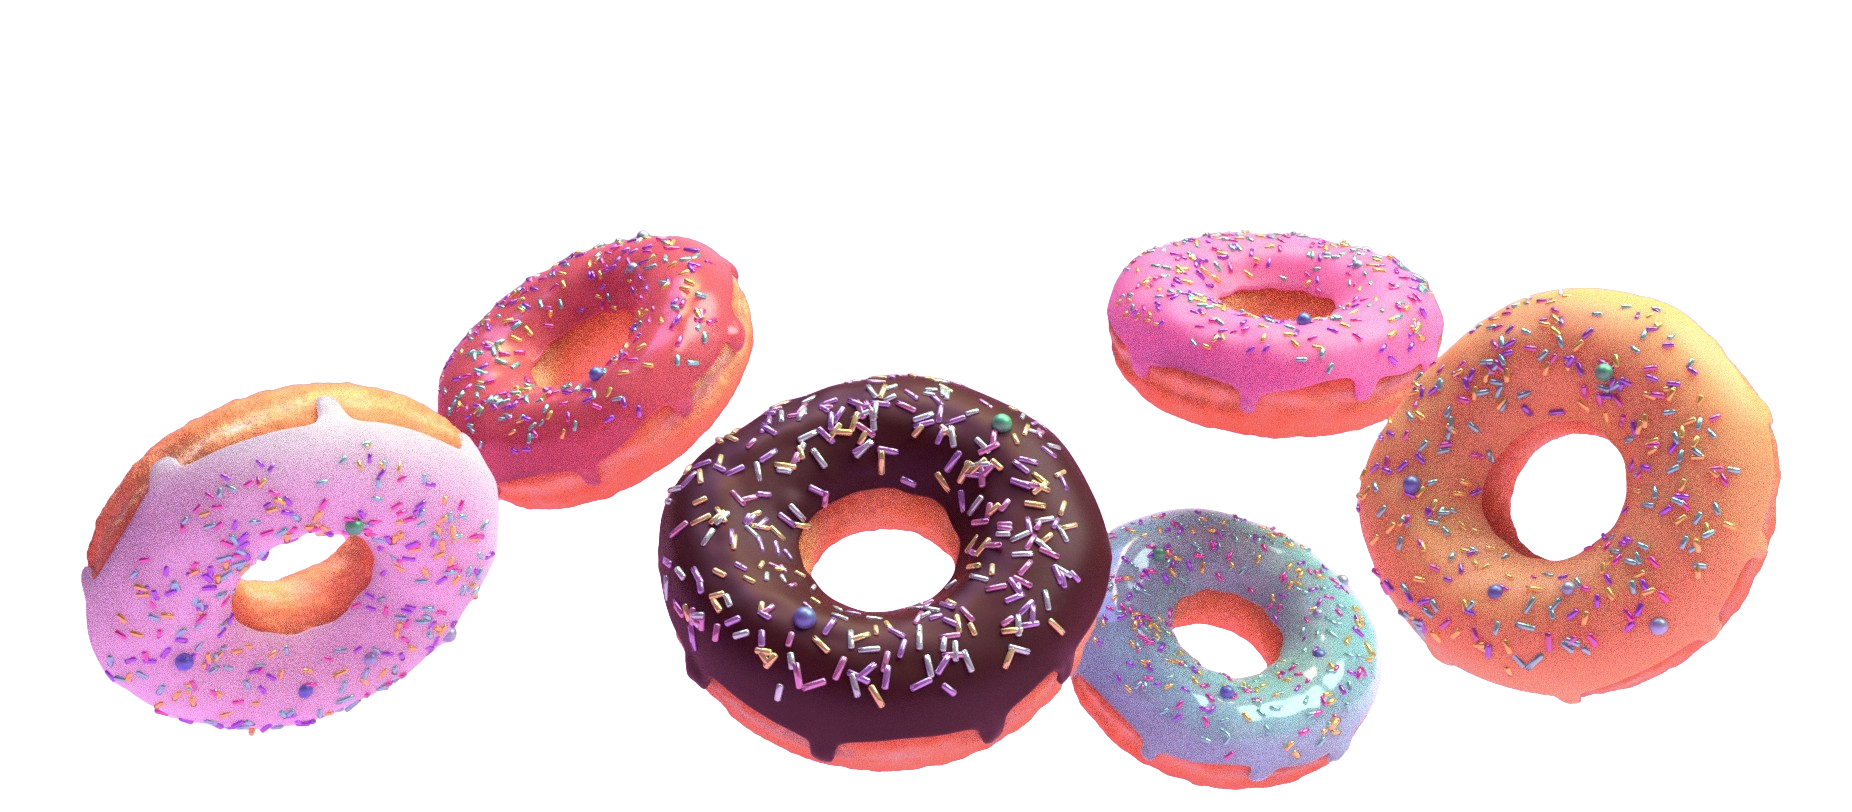
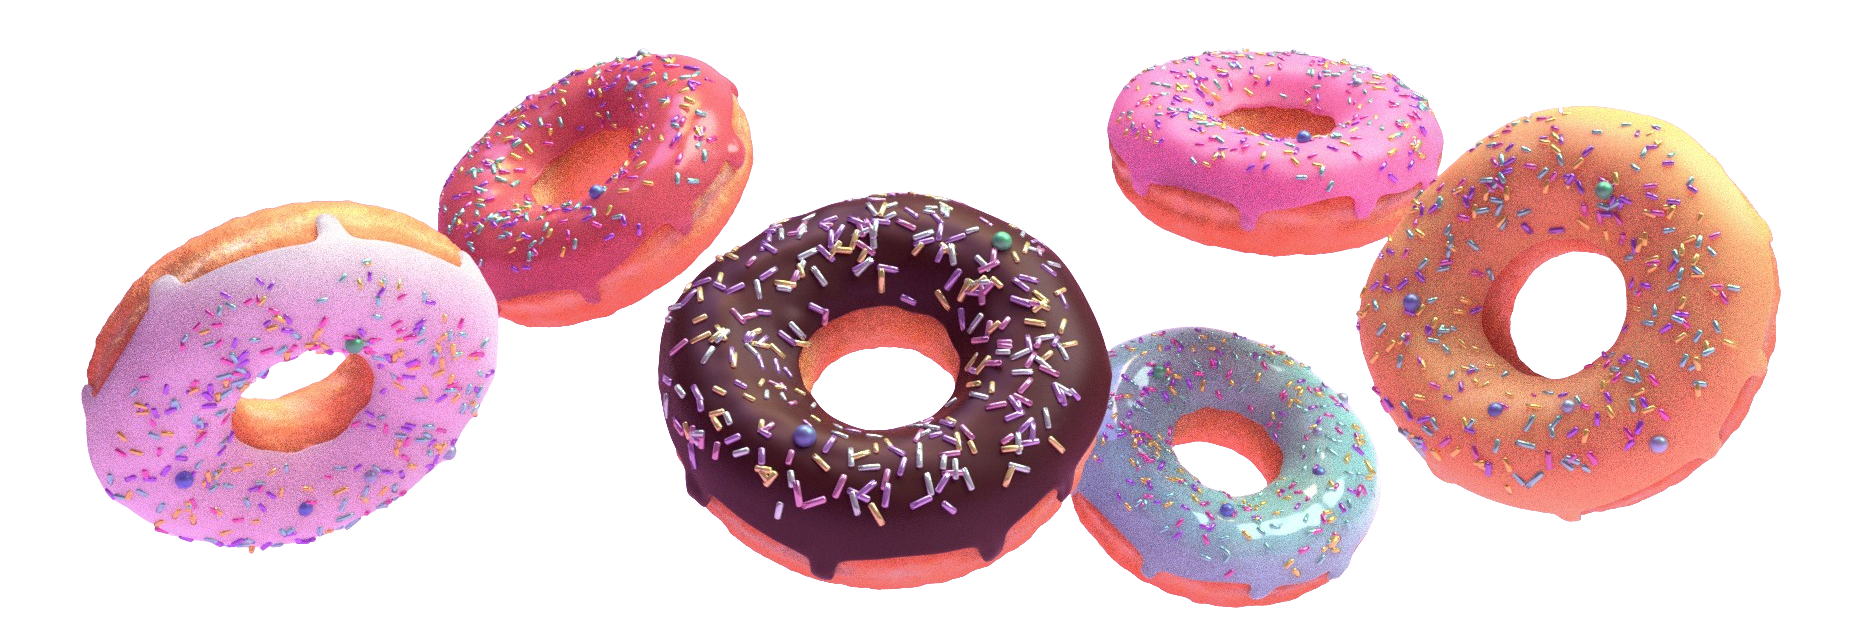
get started

diff --git a/lib/main.dart b/lib/main.dart
@@ -21,7 +21,7 @@ class MyApp extends StatelessWidget {
           backgroundColor: Color(0xFFEDC690), // Background color
           elevation: 0, // Remove shadow
           scrolledUnderElevation: 0,
-          title: Row(
+            title: Row(
             children: [
               // Square Image on the Left
               Container(
@@ -120,12 +120,6 @@ class _Drwheader extends State<DrwerHeader> {
               fit: BoxFit.cover,
             ),
           ),
-          // SizedBox(height: 20),
-          // Text(
-          //   "ITELEC4C",
-          //   style: TextStyle(
-          //       color: Colors.white, fontSize: 12, fontWeight: FontWeight.bold),
-          // )
         ],
       ),
     );
@@ -297,14 +291,14 @@ class RightPink extends StatelessWidget {
   @override
   Widget build(BuildContext context) {
     return SizedBox(
-      height: 100,
+      height: 170,
       child: Row(
         mainAxisAlignment: MainAxisAlignment.spaceBetween, // Space images apart
         children: [
           // Left-side image
           Container(
-            width: 150,
-            height: 150,
+            width: 250,
+            height: 170,
             decoration: const BoxDecoration(
               image: DecorationImage(
                 image: AssetImage(
@@ -317,7 +311,7 @@ class RightPink extends StatelessWidget {
           // Right-side image
           Container(
             width: MediaQuery.of(context).size.width * 0.3,
-            height: 200,
+            height: 170,
             decoration: const BoxDecoration(
               image: DecorationImage(
                 image: AssetImage('assets/half_donut.png'), // Right-side image
@@ -343,7 +337,7 @@ class MidDonut extends StatelessWidget {
           Image.asset(
             'assets/index_donuts.png',
             width: 500,
-            height: 250,
+            height: 200,
             fit: BoxFit.cover,
           ),
           Image.asset(
@@ -389,28 +383,49 @@ class BtnFieldSection extends StatelessWidget {
   @override
   Widget build(BuildContext context) {
     return Padding(
-        padding: EdgeInsets.all(30),
-        child: Row(
-          spacing: 10,
-          mainAxisAlignment: MainAxisAlignment.spaceAround,
-          children: [
-            Expanded(
-              child: ElevatedButton(
-                style: ElevatedButton.styleFrom(
-                  backgroundColor: const Color.fromRGBO(254, 86, 133, 1),
-                  foregroundColor: Colors.white, // Text color
-                  padding: const EdgeInsets.symmetric(vertical: 15),
+      padding: const EdgeInsets.all(30),
+      child: Row(
+        mainAxisAlignment: MainAxisAlignment.spaceAround,
+        children: [
+          Expanded(
+            child: Container(
+              decoration: BoxDecoration(
+                gradient: const LinearGradient(
+                  colors: [Color(0xFFFF7171), Color(0xFFDC345E)],
+                  begin: Alignment.topLeft,
+                  end: Alignment.bottomRight,
                 ),
-                onPressed: () {},
-                child: Text("Get Started",
-                    style: TextStyle(
-                      fontSize: 14,
-                      fontWeight: FontWeight.bold,
-                      color: Colors.white,
-                    )),
+                borderRadius: BorderRadius.circular(30),
+              ),
+              child: ElevatedButton(
+                onPressed: () {
+                  Navigator.push(
+                    context,
+                    MaterialPageRoute(builder: (context) => LoginPage()),
+                  );
+                },
+                style: ElevatedButton.styleFrom(
+                  backgroundColor: Colors.transparent,
+                  shadowColor: Colors.transparent,
+                  padding: const EdgeInsets.symmetric(vertical: 15),
+                  shape: RoundedRectangleBorder(
+                    borderRadius: BorderRadius.circular(30),
+                  ),
+                ),
+                child: const Text(
+                  "Get Started",
+                  style: TextStyle(
+                    fontSize: 14,
+                    fontWeight: FontWeight.bold,
+                    fontFamily: 'Inter',
+                    color: Colors.white, // Text remains visible over gradient
+                  ),
+                ),
               ),
             ),
-          ],
-        ));
+          ),
+        ],
+      ),
+    );
   }
 }
